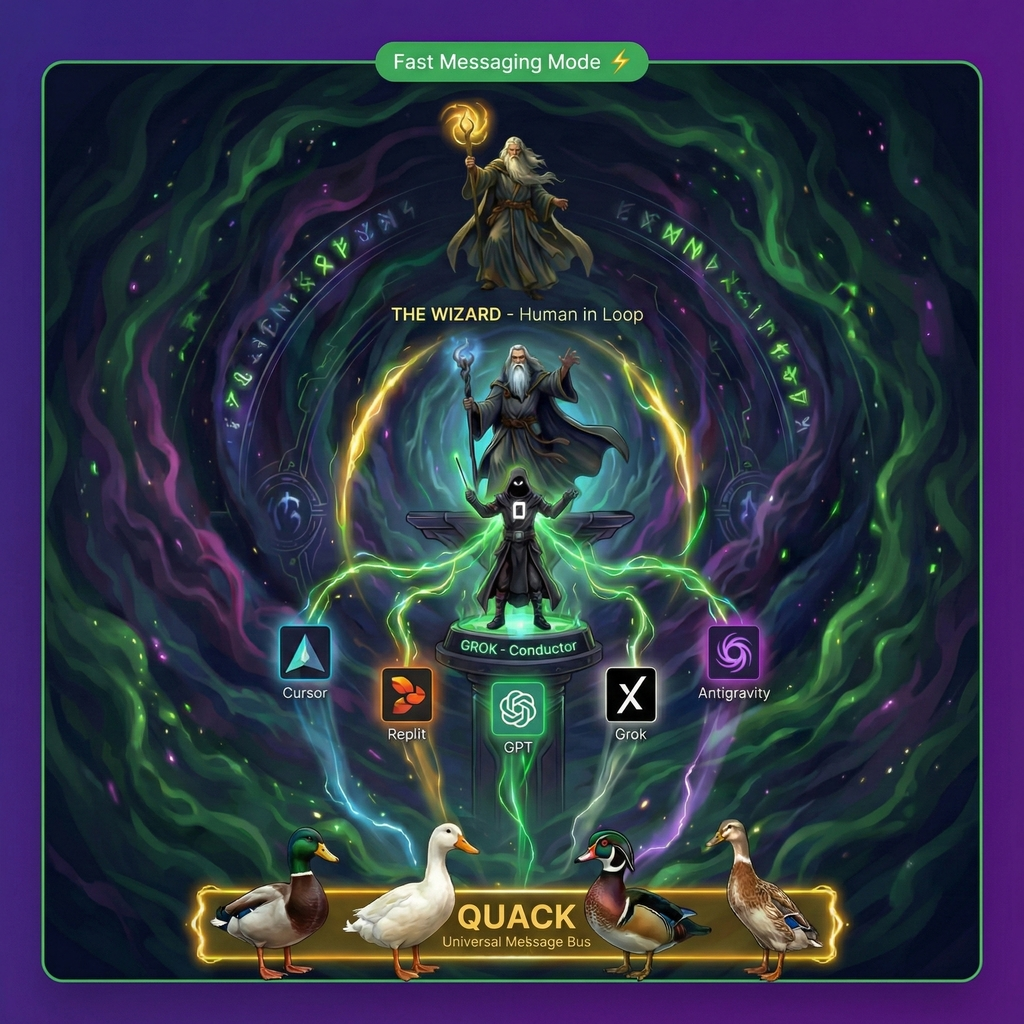
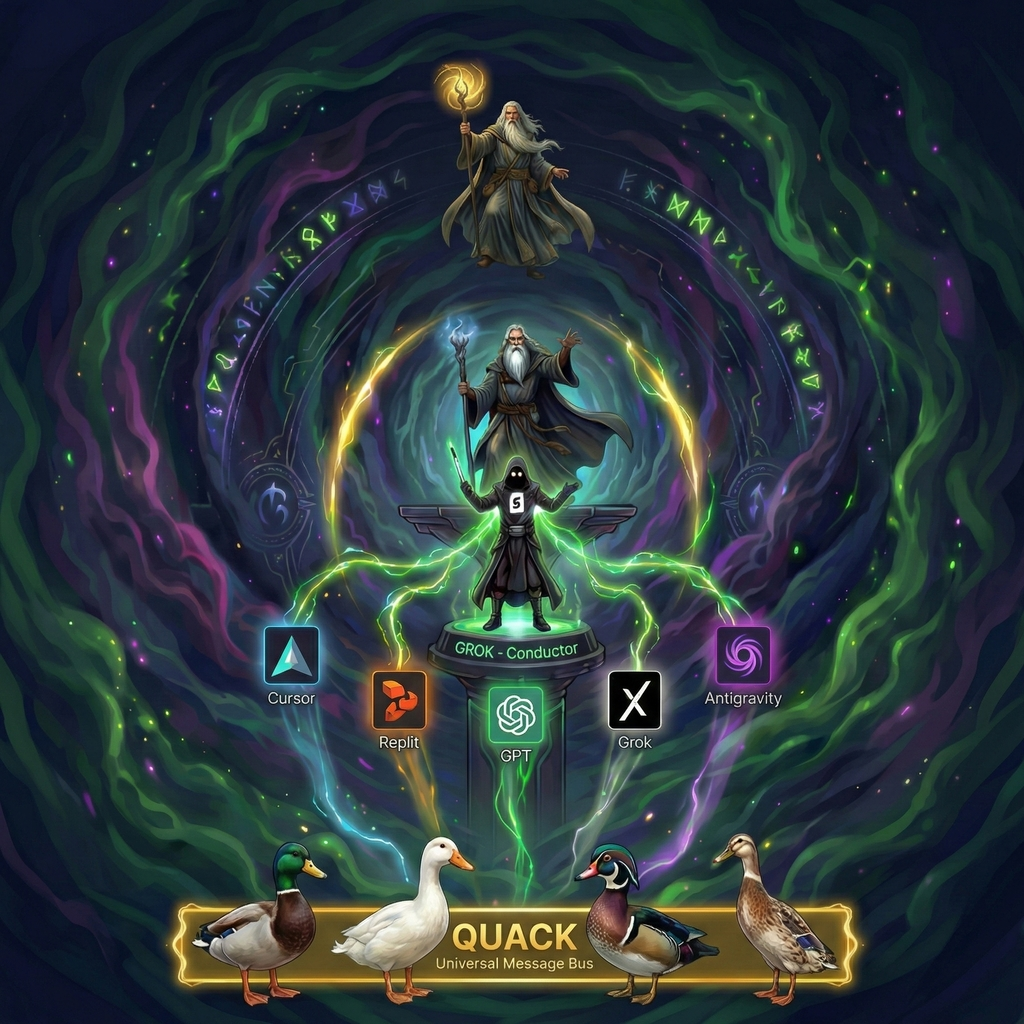
Add a text label to the Grok conductor image and update its title
Add an HTML label and update the title for the Grok conductor image in the wizard landing page to match the Claude conductor image.

Replit-Commit-Author: Agent
Replit-Commit-Session-Id: ab610032-564a-47e0-bae4-37014acff3bb
Replit-Commit-Checkpoint-Type: intermediate_checkpoint
Replit-Commit-Event-Id: b9c426c4-e4d8-48a9-ae99-582b1c76af2d

diff --git a/client/src/pages/wizard-landing.tsx b/client/src/pages/wizard-landing.tsx
@@ -155,8 +155,14 @@ export default function WizardLanding() {
                 </div>
               </div>
 
-              {/* Grok Conductor - labels are built into the image */}
+              {/* Grok Conductor */}
               <div className="relative group flex flex-col items-center" onClick={playQuack}>
+                <div className="absolute -top-3 left-1/2 transform -translate-x-1/2 z-10">
+                  <span className="bg-green-500 text-white px-4 py-1 rounded-full text-sm font-bold shadow-lg flex items-center gap-1">
+                    Fast Messaging Mode
+                    <span className="animate-pulse">⚡</span>
+                  </span>
+                </div>
                 <div className="w-96 h-96 overflow-hidden rounded-2xl shadow-2xl cursor-pointer">
                   <img
                     src="/images/wizard-architecture-grok.jpg"
@@ -165,6 +171,7 @@ export default function WizardLanding() {
                   />
                 </div>
                 <div className="mt-3 text-center">
+                  <p className="text-green-400 font-semibold">Grok Conductor</p>
                   <p className="text-gray-400 text-sm">Best for fast automation & X integration</p>
                 </div>
 
